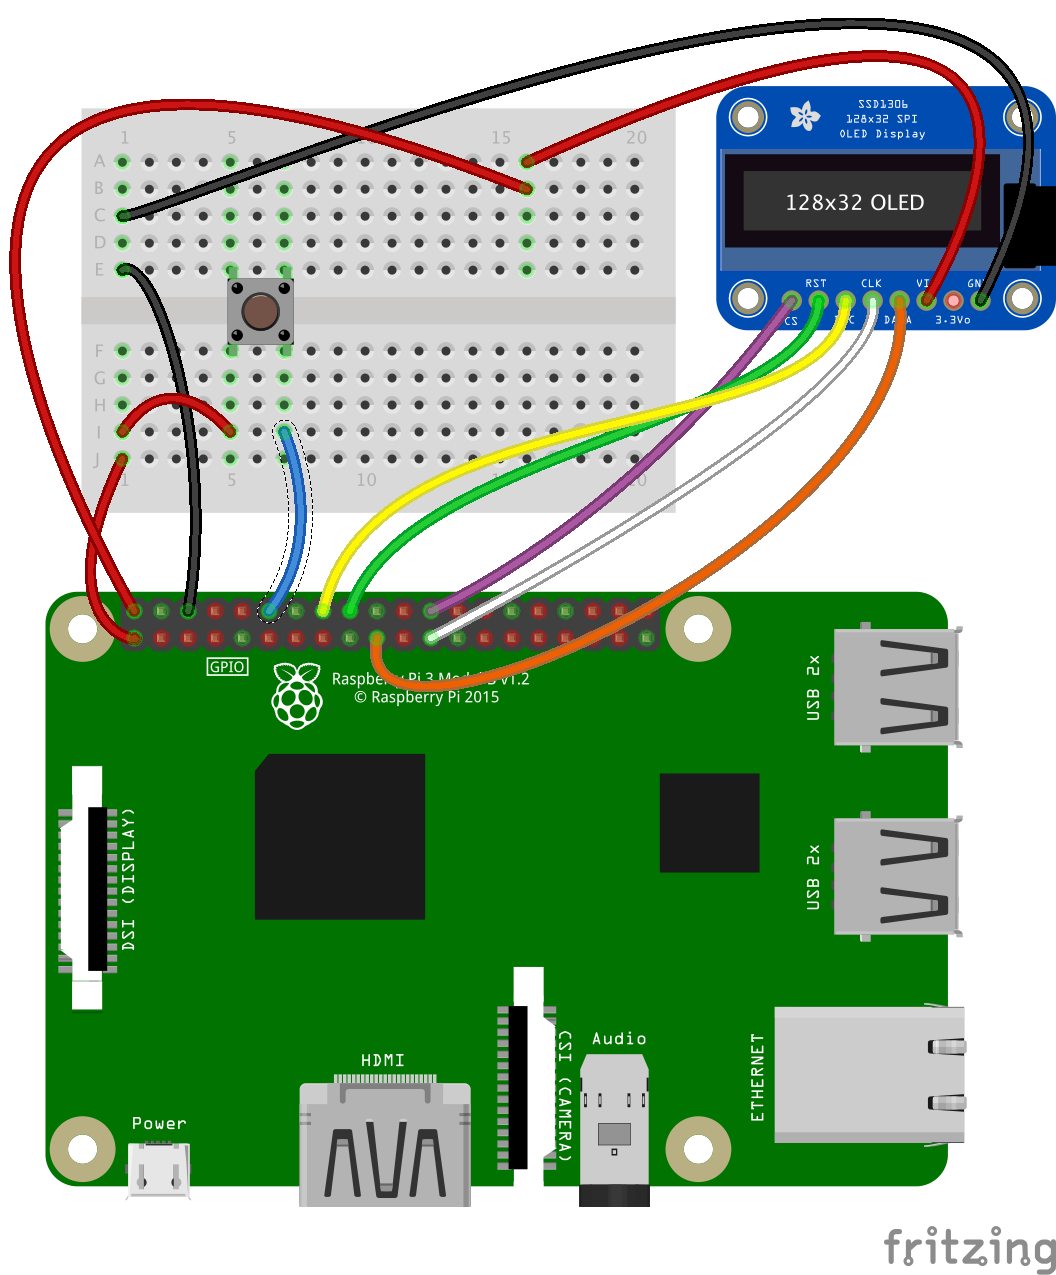
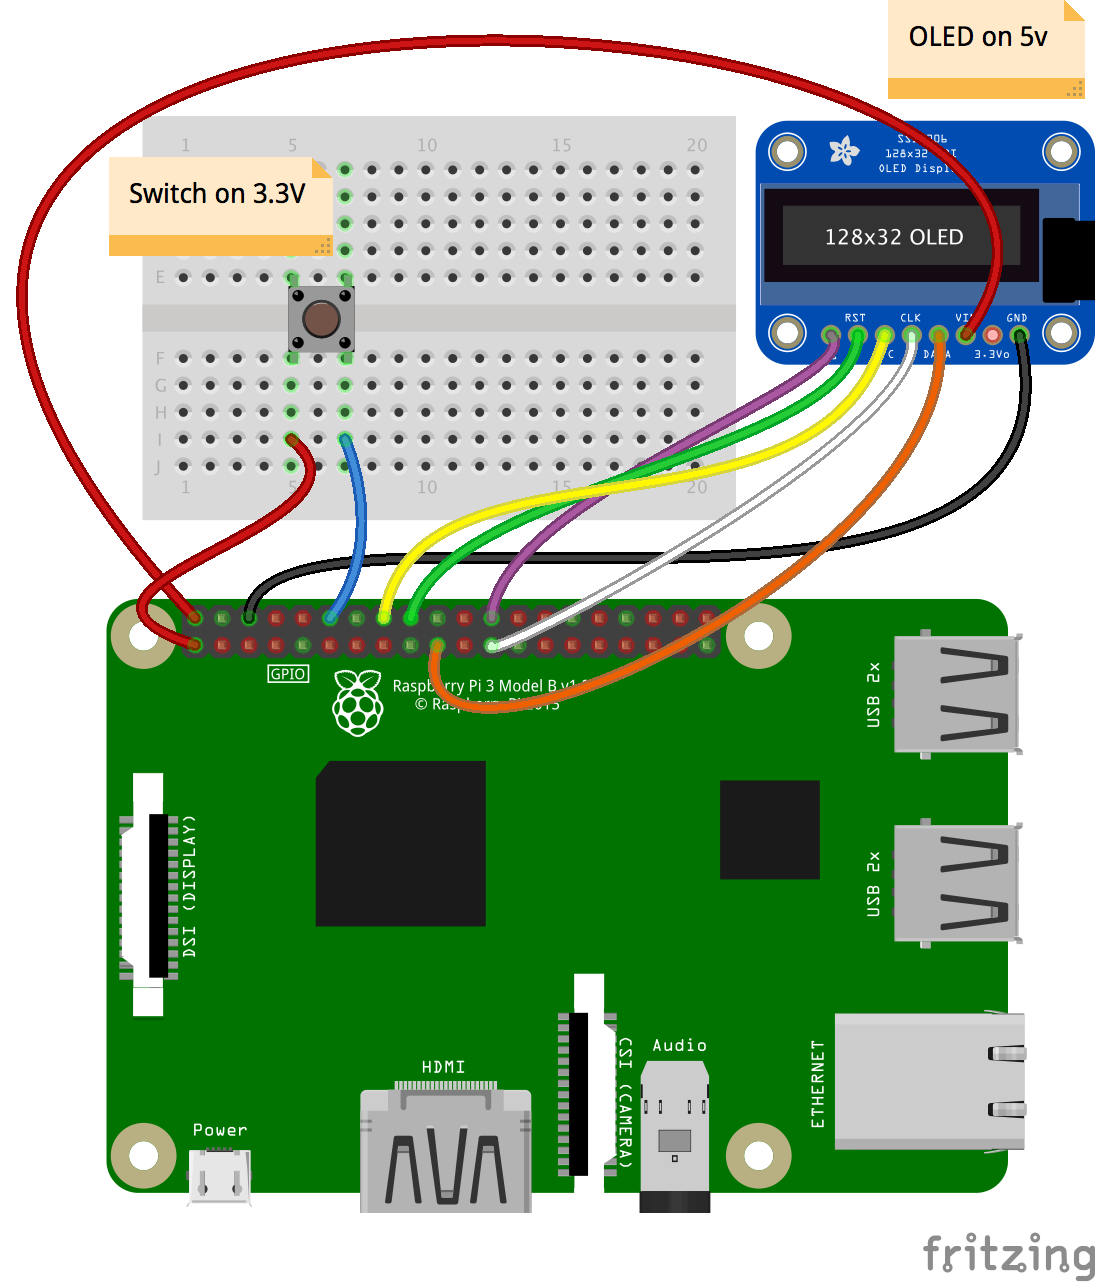
Added push button to SSD1306 processor

diff --git a/NMEA.multiplexer/src/java/nmea/forwarders/SSD1306Processor.java b/NMEA.multiplexer/src/java/nmea/forwarders/SSD1306Processor.java
@@ -2,6 +2,8 @@ package nmea.forwarders;
 
 import context.ApplicationContext;
 import context.NMEADataCache;
+import nmea.forwarders.pushbutton.PushButtonMaster;
+import nmea.forwarders.pushbutton.PushButtonObserver;
 import nmea.parser.Angle180;
 import nmea.parser.Angle180EW;
 import nmea.parser.Angle180LR;
@@ -25,7 +27,7 @@ import java.util.Properties;
  * This is an example of a <b>transformer</b>.
  * <br>
  * To be used with other apps.
- * This transformer displays the TWD on an OLED display (SSD1306)
+ * This transformer displays the TWD on an OLED displayTWD (SSD1306)
  * <br>
  * See http://www.lediouris.net/RaspberryPI/SSD1306/readme.html
  *
@@ -34,7 +36,7 @@ import java.util.Properties;
  * used at startup. It - for now - cannot be managed from the Web UI.
  * The REST api is not aware of it.
  */
-public class SSD1306Processor implements Forwarder {
+public class SSD1306Processor implements Forwarder, PushButtonObserver {
 	private boolean keepWorking = true;
 
 	private static class CacheBean {
@@ -95,6 +97,53 @@ public class SSD1306Processor implements Forwarder {
 
 	private boolean mirror = "true".equals(System.getProperty("mirror.screen", "false")); // Screen is to be seen in a mirror.
 
+	private static PushButtonMaster pbm = null;
+
+	private final static int TWD_OPTION =  0;
+	private final static int BSP_OPTION =  1;
+	private final static int TWS_OPTION =  2;
+	private final static int TWA_OPTION =  3;
+	private final static int AWA_OPTION =  4;
+	private final static int AWS_OPTION =  5;
+	private final static int ATP_OPTION =  6;
+	private final static int WTP_OPTION =  7;
+	private final static int COG_OPTION =  8;
+	private final static int SOG_OPTION =  9;
+	private final static int HDG_OPTION = 10;
+	private final static int POS_OPTION = 11;
+	private final static int DBT_OPTION = 12;
+	private final static int HUM_OPTION = 13;
+	private final static int CUR_OPTION = 14;
+
+	private final static int[] OPTION_ARRAY = {
+					TWD_OPTION,
+					BSP_OPTION,
+					TWS_OPTION,
+					TWA_OPTION,
+					AWA_OPTION,
+					AWS_OPTION,
+					ATP_OPTION,
+					WTP_OPTION,
+					COG_OPTION,
+					SOG_OPTION,
+					HDG_OPTION,
+					POS_OPTION,
+					DBT_OPTION,
+					HUM_OPTION,
+					CUR_OPTION
+	};
+
+	private static int currentOption = TWD_OPTION;
+
+	@Override
+	public void onButtonPressed() {
+		currentOption++;
+		if (currentOption >= OPTION_ARRAY.length) {
+			currentOption = 0;
+		}
+//	stateOption(); // TODO Do it
+	}
+
 	/**
 	 * @throws Exception
 	 */
@@ -113,6 +162,10 @@ public class SSD1306Processor implements Forwarder {
 
 		sb = new ScreenBuffer(WIDTH, HEIGHT);
 		sb.clear(ScreenBuffer.Mode.WHITE_ON_BLACK);
+
+		PushButtonObserver instance = this;
+		pbm = new PushButtonMaster(instance);
+		pbm.initCtx();                  // Initialize Push button
 
 		Thread cacheThread = new Thread("SSD1306Processor CacheThread") {
 			public void run() {
@@ -246,7 +299,28 @@ public class SSD1306Processor implements Forwarder {
 						}
 					}
 					// Transformer's specific job.
-					display(bean.twd);
+					switch (currentOption) {
+						case TWD_OPTION:
+							displayTWD(bean.twd);
+							break;
+						case BSP_OPTION:
+						case TWS_OPTION:
+						case TWA_OPTION:
+						case AWA_OPTION:
+						case AWS_OPTION:
+						case ATP_OPTION:
+						case WTP_OPTION:
+						case COG_OPTION:
+						case SOG_OPTION:
+						case HDG_OPTION:
+						case POS_OPTION:
+						case DBT_OPTION:
+						case HUM_OPTION:
+						case CUR_OPTION:
+						default:
+							displayTWD(bean.twd);
+							break;
+					}
 
 					try { Thread.sleep(1000L); } catch (Exception ex) {}
 				}
@@ -256,7 +330,7 @@ public class SSD1306Processor implements Forwarder {
 		cacheThread.start();
 	}
 
-	private void display(int twd) {
+	private void displayTWD(int twd) {
 
 		int centerX = 80, centerY = 16, radius = 15;
 
@@ -300,6 +374,9 @@ public class SSD1306Processor implements Forwarder {
 			oled.display();
 
 			oled.shutdown();
+
+			pbm.freeResources();
+
 		} catch (Exception ex) {
 			throw new RuntimeException(ex);
 		}

diff --git a/NMEA.multiplexer/src/java/nmea/forwarders/pushbutton/PushButtonMaster.java b/NMEA.multiplexer/src/java/nmea/forwarders/pushbutton/PushButtonMaster.java
@@ -1,0 +1,48 @@
+package nmea.forwarders.pushbutton;
+
+import com.pi4j.io.gpio.GpioController;
+import com.pi4j.io.gpio.GpioFactory;
+import com.pi4j.io.gpio.GpioPinDigitalInput;
+import com.pi4j.io.gpio.Pin;
+import com.pi4j.io.gpio.PinPullResistance;
+import com.pi4j.io.gpio.RaspiPin;
+import com.pi4j.io.gpio.event.GpioPinListenerDigital;
+
+/**
+ * Implements the nuts and bolts of the push button interaction.
+ * No need to worry about that in the main class.
+ * From the main:
+ * Invoke the initCtx method
+ * Invoke the freeResources method
+ */
+public class PushButtonMaster {
+	private final GpioController gpio = GpioFactory.getInstance();
+	private GpioPinDigitalInput button = null;
+
+	private PushButtonObserver pbo = null;
+
+	public PushButtonMaster(PushButtonObserver obs) {
+		if (obs == null) {
+			throw new IllegalArgumentException("Observer cannot be null");
+		}
+		this.pbo = obs;
+	}
+
+	public void initCtx() {
+		initCtx(RaspiPin.GPIO_01);
+	}
+
+	public void initCtx(Pin buttonPin) {
+		// provision gpio pin #01 as an output pin and turn it off
+		button = gpio.provisionDigitalInputPin(buttonPin, PinPullResistance.PULL_DOWN);
+		button.addListener((GpioPinListenerDigital) event -> {
+			if (event.getState().isHigh())
+				pbo.onButtonPressed();
+		});
+	}
+
+	public void freeResources() {
+		gpio.shutdown();
+//	System.exit(0);
+	}
+}

diff --git a/NMEA.multiplexer/src/java/nmea/forwarders/pushbutton/PushButtonObserver.java b/NMEA.multiplexer/src/java/nmea/forwarders/pushbutton/PushButtonObserver.java
@@ -1,4 +1,4 @@
-package pushbutton;
+package nmea.forwarders.pushbutton;
 
 public interface PushButtonObserver {
 	void onButtonPressed();
